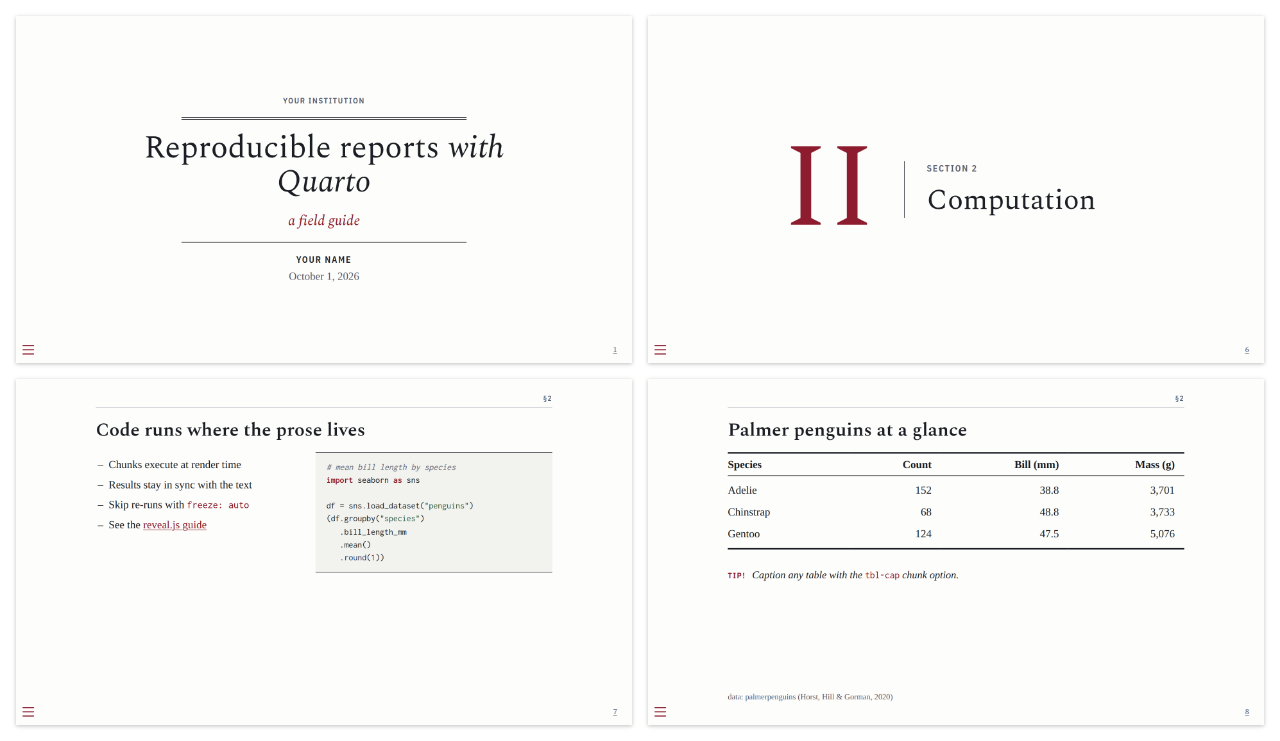
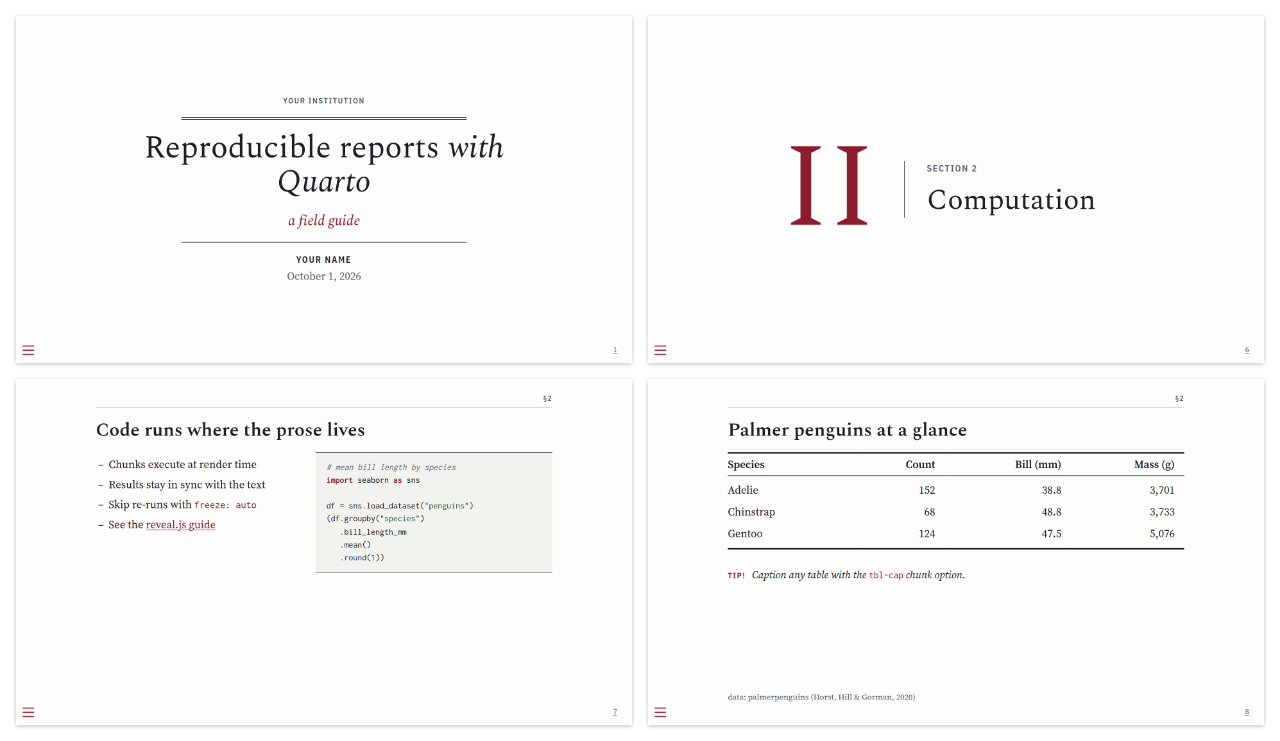
Fix title slides with missing or extra metadata, Scholar body font
QA pass rendering each theme's title slide with parts of the front matter
missing (no institution, date, subtitle or author), with several authors,
an author email and a long title.

- nocturne, blueprint, pop: several authors no longer overlap each other
  or the date. Nocturne wraps "Name, Affiliation" pairs in the byline,
  Blueprint adds a title block row per author, Pop wraps the chips.
- nocturne, blueprint, scholar, pop: hide the author email, which landed
  in a stray spot on the title slide (Riso already hid it).
- riso: no dangling separator or indent before the date when there is
  no author.
- riso: add view-distance: 100 like the other themes, so the section
  number stays right on decks with more than a few sections.
- scholar: body text rendered in the browser's default serif, because
  reveal writes --r-main-font unquoted and "Source Serif 4" is invalid
  unquoted. Quote the name inside the string. Screenshot updated.
- riso, blueprint, scholar: drop font weights that no rule uses.

Claude-Session: https://claude.ai/code/session_01HGvo641J5hAWGGDeMqjxBE

diff --git a/_extensions/blueprint/blueprint.scss b/_extensions/blueprint/blueprint.scss
@@ -6,7 +6,7 @@
 //
 // px values below are in slide pixels (default 1050x700) and scale with the deck.
 
-@import url('https://fonts.googleapis.com/css2?family=Barlow+Condensed:wght@500;600;700&family=Barlow:ital,wght@0,400;0,500;1,400&family=Martian+Mono:wght@400;600&display=swap');
+@import url('https://fonts.googleapis.com/css2?family=Barlow+Condensed:wght@600;700&family=Barlow:ital,wght@0,400;0,500;1,400&family=Martian+Mono:wght@400;600&display=swap');
 
 $bp-paper: #1D4E9E !default;       // cyanotype blue
 $bp-deep: #0C2B5E !default;
@@ -308,8 +308,15 @@ $code-bg: transparent !default;
     display: grid !important;
   }
   grid-template-columns: 1fr 264px 264px;
-  // title and subtitle centred in the space above the title block
-  grid-template-rows: 1fr auto auto 1fr auto auto;
+  // title and subtitle centred in the space above the title block, which
+  // takes as many rows below as there are authors
+  grid-template-rows: 1fr auto auto 1fr;
+
+  // fills the rows above, so the title block cells are placed below them
+  &::before {
+    content: "";
+    grid-area: 1 / 1 / 5 / -1;
+  }
 
   .title {
     grid-area: 2 / 1 / 3 / -1;
@@ -372,8 +379,10 @@ $code-bg: transparent !default;
     }
   }
 
+  // per author: the name on a full row, the affiliation below it on the left;
+  // the date fills the right of the last row
   .quarto-title-author-name {
-    grid-area: 5 / 2 / 6 / 4;
+    grid-column: 2 / 4;
     @include bp-label(22px);
     letter-spacing: 0.06em;
 
@@ -383,7 +392,7 @@ $code-bg: transparent !default;
   }
 
   .quarto-title-affiliation {
-    grid-area: 6 / 2;
+    grid-column: 2;
 
     &::before {
       content: "Institution";
@@ -391,11 +400,15 @@ $code-bg: transparent !default;
   }
 
   .date {
-    grid-area: 6 / 3;
+    grid-column: 3;
 
     &::before {
       content: "Date";
     }
+  }
+
+  .quarto-title-author-email {
+    display: none;
   }
 }
 

diff --git a/_extensions/scholar/scholar.scss b/_extensions/scholar/scholar.scss
@@ -6,7 +6,7 @@
 //
 // px values below are in slide pixels (default 1050x700) and scale with the deck.
 
-@import url('https://fonts.googleapis.com/css2?family=Spectral:ital,wght@0,400;0,600;1,400&family=Source+Serif+4:ital,opsz,wght@0,8..60,400;0,8..60,600;1,8..60,400&family=IBM+Plex+Sans+Condensed:wght@500;600&family=Inconsolata:wght@400;600&display=swap');
+@import url('https://fonts.googleapis.com/css2?family=Spectral:ital,wght@0,400;0,600;1,400&family=Source+Serif+4:ital,opsz,wght@0,8..60,400;0,8..60,600;1,8..60,400&family=IBM+Plex+Sans+Condensed:wght@600&family=Inconsolata:wght@400;600&display=swap');
 
 $sch-paper: #FDFDFB !default;
 $sch-ink: #1B1E24 !default;
@@ -16,7 +16,9 @@ $sch-rule: #C9CBD1 !default;
 $sch-accent: #8C1C2E !default;     // oxblood
 $sch-code-bg: #F2F2EE !default;
 
-$font-family-serif: "Source Serif 4", Georgia, serif !default;
+// quoted inside the string: reveal interpolates this into --r-main-font,
+// which drops the outer quotes, and an unquoted "4" invalidates the name
+$font-family-serif: unquote("'Source Serif 4'"), Georgia, serif !default;
 $font-family-monospace: "Inconsolata", "SFMono-Regular", Menlo, monospace !default;
 $sch-heading-font: "Spectral", Georgia, serif !default;
 $sch-label-font: "IBM Plex Sans Condensed", "Helvetica Neue", sans-serif !default;
@@ -333,6 +335,10 @@ $code-bg: transparent !default;
     margin: 0;
     font-size: 22px;
     color: $sch-muted;
+  }
+
+  .quarto-title-author-email {
+    display: none;
   }
 }
 

diff --git a/_extensions/pop/pop.scss b/_extensions/pop/pop.scss
@@ -332,7 +332,7 @@ $code-bg: $pop-black !default;
   &.present {
     display: grid !important;
   }
-  grid-template-columns: auto auto auto 1fr;
+  grid-template-columns: auto 1fr;
   // title and sticker centred in the space above the chips, never on them
   grid-template-rows: 1fr auto auto 1fr auto;
   column-gap: 19px;
@@ -354,16 +354,39 @@ $code-bg: $pop-black !default;
     font-size: 26px;
   }
 
-  .quarto-title-authors,
+  // name and affiliation chips wrap onto more rows; the date sits after them
+  .quarto-title-authors {
+    grid-row: 5;
+    grid-column: 1;
+    display: flex;
+    flex-wrap: wrap;
+    gap: 16px 19px;
+  }
+
   .quarto-title-author {
     display: contents;
+  }
+
+  .date {
+    grid-row: 5;
+    grid-column: 2;
+    justify-self: start;
+    align-self: end;
+    white-space: nowrap;
+  }
+
+  .quarto-title-authors:not(:has(.quarto-title-author)) + .date {
+    grid-column: 1;
+  }
+
+  .quarto-title-author-email {
+    display: none;
   }
 
   // name, affiliation and date as outlined chips
   .quarto-title-author-name,
   .quarto-title-affiliation,
   .date {
-    grid-row: 5;
     margin: 0;
     padding: 6px 19px;
     background: $pop-white;

diff --git a/_extensions/nocturne/nocturne.scss b/_extensions/nocturne/nocturne.scss
@@ -358,26 +358,48 @@ $code-bg: transparent !default;
     letter-spacing: -0.02em;
   }
 
-  .quarto-title-authors,
+  // "Name, Affiliation" per author, wrapping onto more lines if needed
+  .quarto-title-authors {
+    grid-row: 3;
+    grid-column: 1 / 3;
+    display: flex;
+    flex-wrap: wrap;
+    gap: 4px 32px;
+    padding-right: 32px;
+  }
+
   .quarto-title-author {
-    display: contents;
+    display: flex;
+    flex-wrap: wrap;
+    column-gap: 0.3em;
+    padding: 0;
+  }
+
+  // flex trims the whitespace in Quarto's markup before the comma
+  .quarto-title-author-name {
+    display: flex;
+  }
+
+  .quarto-title-author-name:has(~ .quarto-title-affiliation)::after {
+    content: ",";
   }
 
   .quarto-title-author-name,
   .quarto-title-affiliation,
   .date {
-    grid-row: 3;
     margin: 0;
     font-size: 18px;
     color: $nct-mist;
   }
 
-  .quarto-title-affiliation::before {
-    content: ", ";
+  .quarto-title-author-email {
+    display: none;
   }
 
   .date {
+    grid-row: 3;
     grid-column: 3;
+    align-self: end;
   }
 }
 

diff --git a/_extensions/riso/riso.scss b/_extensions/riso/riso.scss
@@ -7,7 +7,7 @@
 //
 // px values below are in slide pixels (default 1050x700) and scale with the deck.
 
-@import url('https://fonts.googleapis.com/css2?family=Bricolage+Grotesque:opsz,wght@12..96,500;12..96,800&family=Instrument+Sans:ital,wght@0,400;0,600;1,400&family=Space+Mono:ital,wght@0,400;0,700;1,400&display=swap');
+@import url('https://fonts.googleapis.com/css2?family=Bricolage+Grotesque:opsz,wght@12..96,800&family=Instrument+Sans:ital,wght@0,400;0,600;1,400&family=Space+Mono:ital,wght@0,400;0,700;1,400&display=swap');
 
 // inks & paper
 $riso-paper: #F3EEE3 !default;
@@ -512,6 +512,15 @@ $tabset-border-color: $riso-ink !default;
   .date {
     grid-row: 3;
     grid-column: 2;
+  }
+
+  // no authors: the date starts the byline, without a separator
+  .quarto-title-authors:not(:has(.quarto-title-author)) + .date {
+    grid-column: 1;
+
+    &::before {
+      content: none;
+    }
   }
 
   .quarto-title-author-email {
